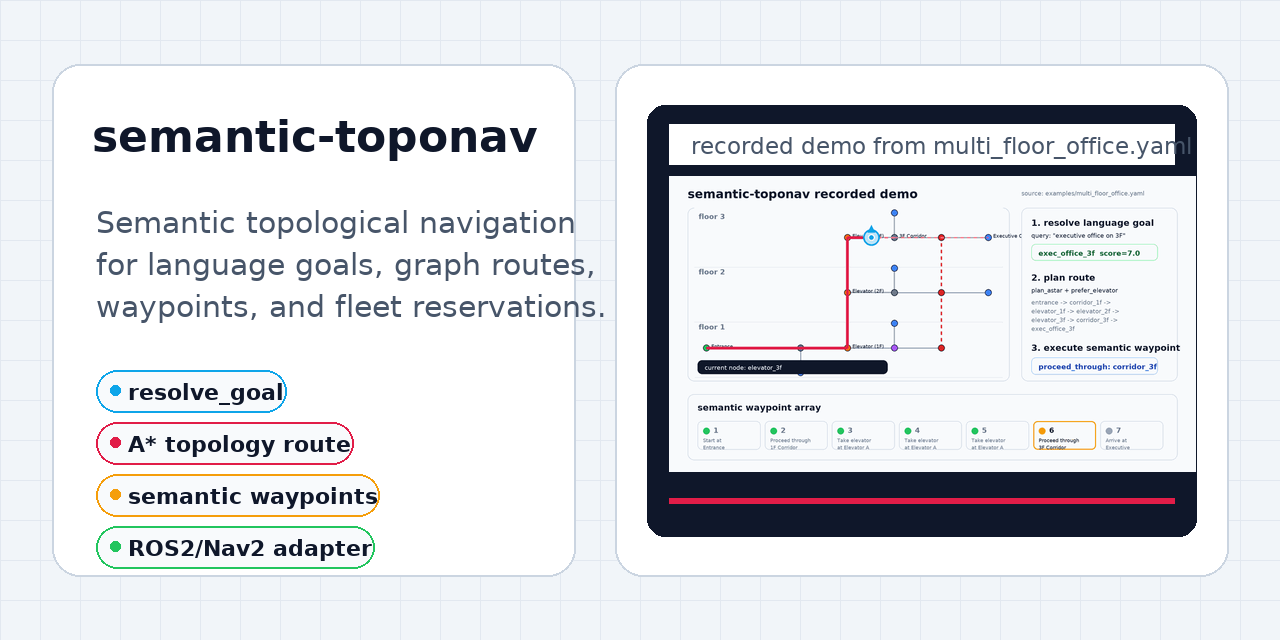
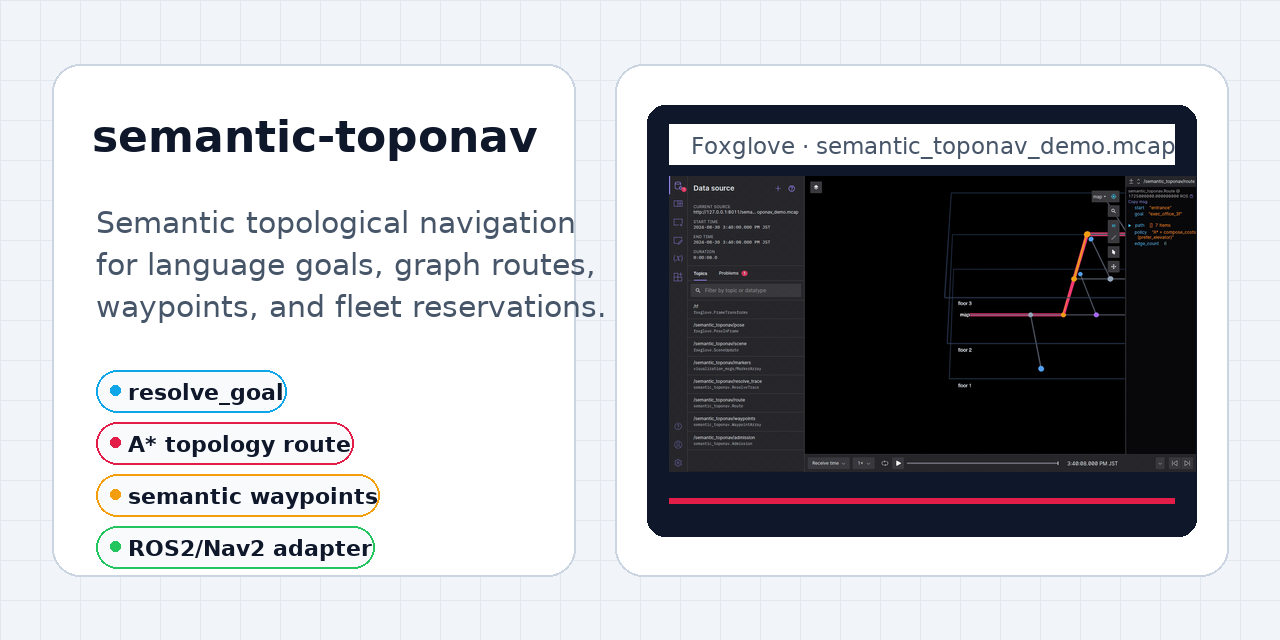
docs: front-page Foxglove polish (open-in-Studio CTA + replay frame social preview) (#73)
- README hero subtitle: spell out the Open-in-Foxglove path — link to the
  MCAP, link to Foxglove Studio web app, link to docs/foxglove/README.md
  for the four-step panel setup.
- Social preview (docs/images/social_preview.png): right pane now shows a
  frame from the Foxglove Studio replay of semantic_toponav_demo.mcap
  (was: matplotlib recorded demo).
- examples/build_social_preview.py: source the demo frame from
  docs/images/22_foxglove_replay.gif (frame 40); update header label.

Changed region(s): [[0.5, 0.2188, 0.9375, 0.75]]

diff --git a/examples/build_social_preview.py b/examples/build_social_preview.py
@@ -16,7 +16,8 @@ from PIL import Image, ImageDraw, ImageFont
 
 HERE = Path(__file__).parent
 ROOT = HERE.parent
-DEMO_GIF = ROOT / "docs" / "images" / "18_semantic_navigation_demo.gif"
+DEMO_GIF = ROOT / "docs" / "images" / "22_foxglove_replay.gif"
+DEMO_FRAME_INDEX = 40
 OUT_PATH = ROOT / "docs" / "images" / "social_preview.png"
 
 W, H = 1280, 640
@@ -61,10 +62,11 @@ def _rounded(
 def _load_demo_frame() -> Image.Image:
     if not DEMO_GIF.exists():
         raise FileNotFoundError(
-            f"{DEMO_GIF} does not exist; run examples/record_semantic_navigation_demo.py first"
+            f"{DEMO_GIF} does not exist; record a Foxglove Studio replay of "
+            "docs/foxglove/semantic_toponav_demo.mcap (see docs/foxglove/README.md)"
         )
     gif = Image.open(DEMO_GIF)
-    gif.seek(56)
+    gif.seek(min(DEMO_FRAME_INDEX, gif.n_frames - 1))
     return gif.convert("RGB")
 
 
@@ -104,7 +106,7 @@ def main() -> None:
     _rounded(draw, (615, 64, 1228, 576), 28, PANEL, (203, 213, 225), 2)
     _rounded(draw, (647, 105, 1196, 536), 18, (15, 23, 42), None)
     draw.rectangle((669, 124, 1174, 164), fill=(255, 255, 255))
-    draw.text((691, 132), "recorded demo from multi_floor_office.yaml", font=FONT_SMALL, fill=MUTED)
+    draw.text((691, 132), "Foxglove · semantic_toponav_demo.mcap", font=FONT_SMALL, fill=MUTED)
     img.paste(preview, (669, 176))
     draw.line([(669, 500), (1174, 500)], fill=ACCENT, width=6)
 

diff --git a/README.md b/README.md
@@ -9,7 +9,7 @@
 </p>
 
 <p align="center">
-  <sub>Foxglove Studio replay from real planner output: semantic topology, robot pose, route topics, and waypoint stream. Open the source MCAP at <code>docs/foxglove/semantic_toponav_demo.mcap</code>.</sub>
+  <sub>Foxglove Studio replay from real planner output: semantic topology, robot pose, route topics, and waypoint stream. <strong>Open it yourself:</strong> drop <a href="docs/foxglove/semantic_toponav_demo.mcap"><code>docs/foxglove/semantic_toponav_demo.mcap</code></a> into <a href="https://studio.foxglove.dev/">Foxglove Studio</a> — see <a href="docs/foxglove/README.md">docs/foxglove/README.md</a> for the four-step panel setup.</sub>
 </p>
 
 **Grounded middle planning layer for robot navigation.** Bridges
